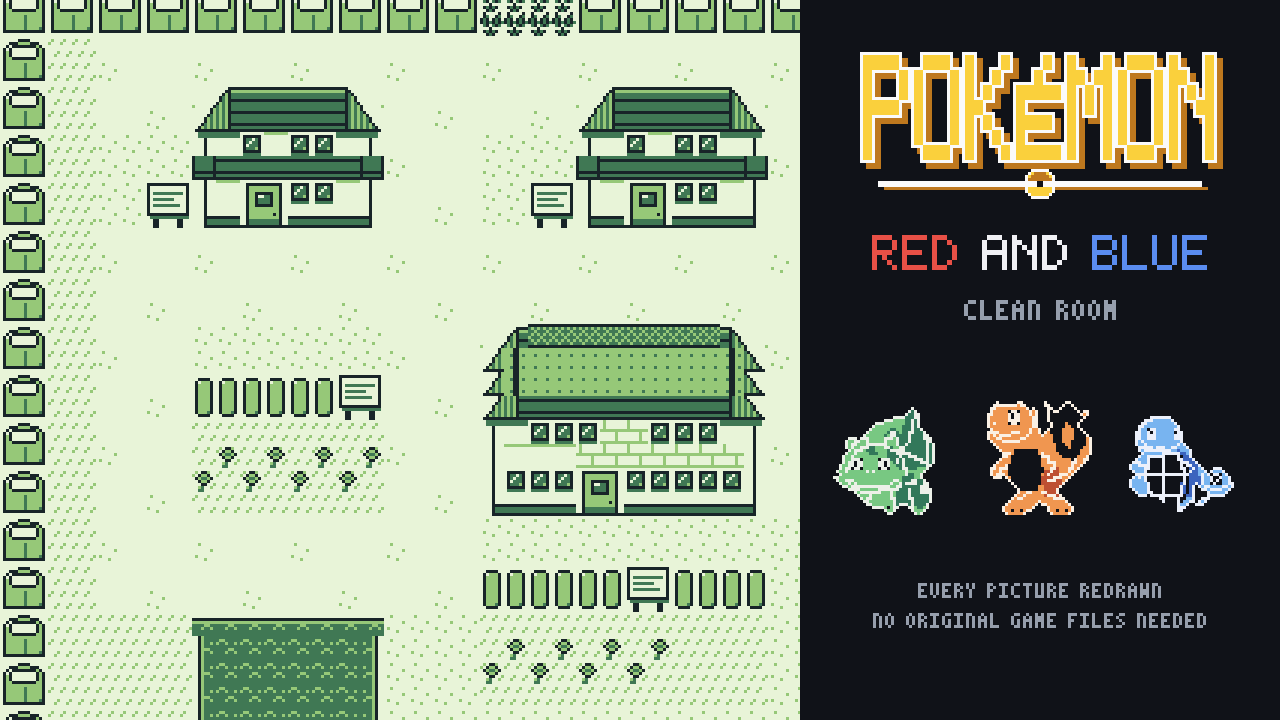
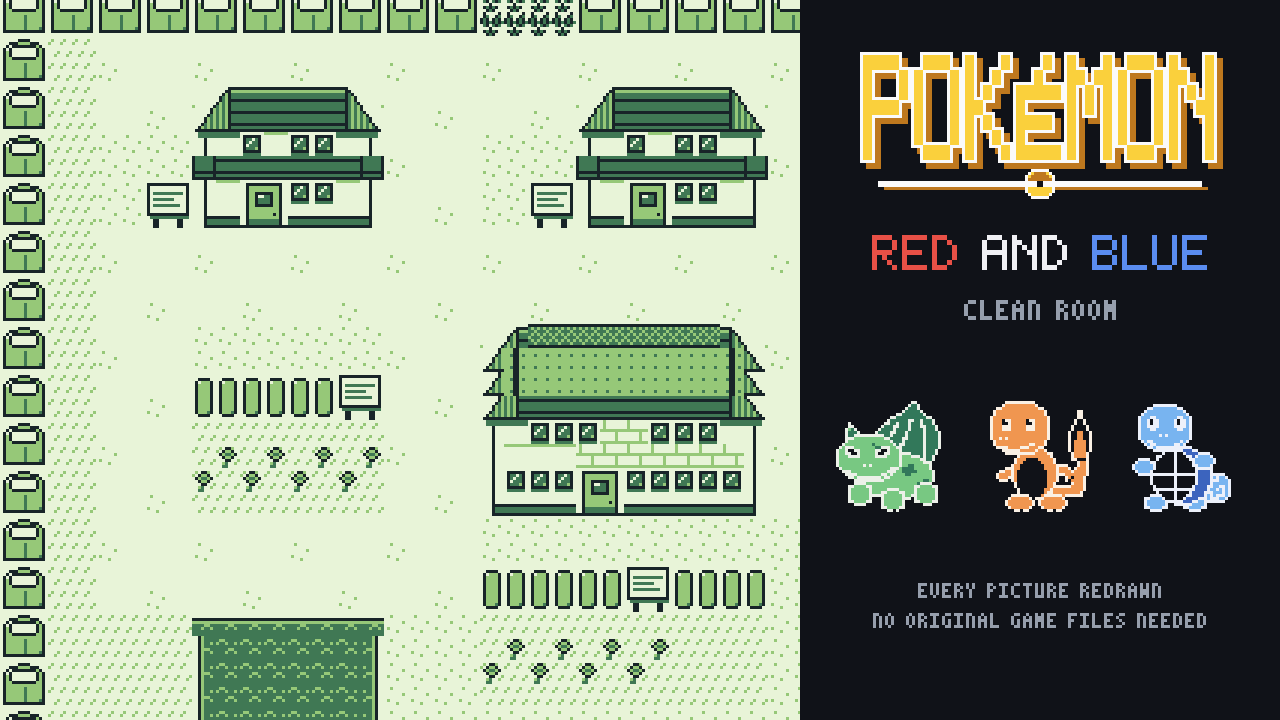
Poster refresh, status

Changed region(s): [[0.6562, 0.55, 0.9688, 0.7333]]

diff --git a/STATUS.md b/STATUS.md
@@ -28,9 +28,9 @@ _Updated 2026-10-02 (first night)._
 |---|---|
 | Font, text frame, HP bar, battle HUD | own design (`art/font.py`) |
 | 19 tilesets (overworld + 18) | every tile redrawn from what it is (`art/ts_*.py`), by me (overworld) and helper agents |
-| 67 overworld sprites | kept silhouette + drawn bands, faces, arms (`art/sprites.py`); things (ball, boulder, ...) drawn |
+| 67 overworld sprites | kept transparency mask + our own per-character stamps for every frame (`sprite_briefs.json`, recipes in `sprite_recipes/`) |
 | UI / title / town map / pokedex / slots / SGB border sheets | own drawings, text re-typeset (`art/misc.py`) |
-| 151 Pokemon front + back, 2 fossils | all drawn from briefs (`games/pokered/briefs/mon_*.json`); second (quality) pass running |
+| 151 Pokemon front + back, 2 fossils | all drawn from briefs (`games/pokered/briefs/mon_*.json`), two passes: 242 of 304 pictures redrawn from our own shapes in the second pass |
 | 45 trainers, player, old man, ghost, intro Nidorino/Jigglypuff, title player | drawn from briefs (`briefs/people.json`), first pass |
 | Intro Gengar (3 poses), trade Game Boy | silhouette + coarse shading (de-duplicated tile pictures: brief still to do) |
 | Battle effects, party icons, badges, slot symbols | silhouette (real sprite alpha) + coarse shading |
@@ -67,14 +67,18 @@ _Updated 2026-10-02 (first night)._
 
 ## Next
 
-1. Second pass on the weakest Pokemon pictures (running), then trainers.
-2. Sprite briefs (hats, hair styles) for the story characters (running: `games/pokered/sprite_briefs.json`).
-3. Intro Gengar poses and trade Game Boy drawn from briefs; battle effects, party icons, badges touch-ups.
-4. A longer scripted play test (first route, first battle, Pokemon Center, Mart) in PyBoy and on the live page.
+1. Second pass on trainers (running) and briefs for party icons, badges, slot symbols, battle effects (running).
+2. Intro Gengar poses and trade Game Boy: these two are de-duplicated tile pictures (the code's tilemaps index
+   them); drawing them freely needs our own tilemaps too. Still coarse silhouettes.
+3. Weak Pokemon named by the helpers (alakazam, arcanine, flareon, dewgong, golduck, gyarados, moltres, tauros,
+   tentacool, several backs): third pass.
+4. Longer scripted play test (`games/pokered/walk_test.py` reaches Pallet Town; extend to Route 1, a wild battle,
+   Pokemon Center, Mart).
 
 ## For the morning
 
 - Play: https://andrewnakas.github.io/pokered-cleanroom/ once published (see top of this file for a BLOCKED note if not).
-- Look at: `D:/n64work/pokered/sheets/` contact sheets (`c_*` = ours).
+- Look at: `D:/n64work/pokered/sheets/c_all_front.png` (all 151 fronts), `c_ppl.png` (trainers), `c_spr.png` (sprites),
+  `c_walk.png` (play test), `poster.png` in the repo.
 - Nothing needed from you. The ROM you downloaded was not required (the pret tree already has every asset) but it
   confirmed the round-trip hash.
